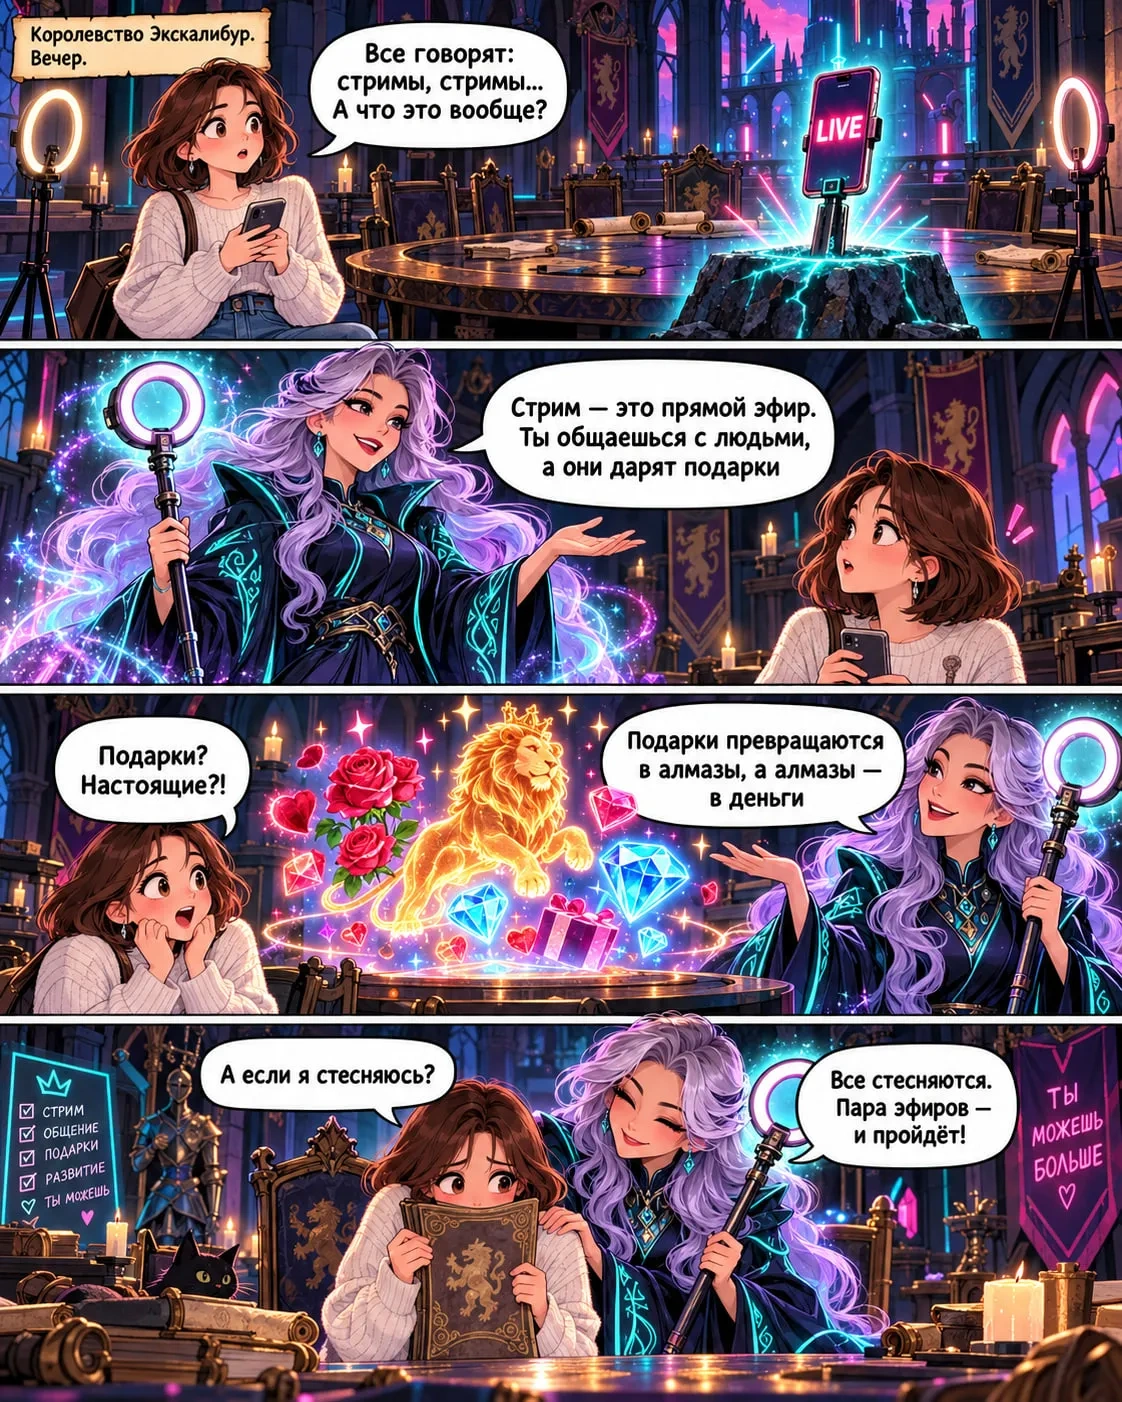
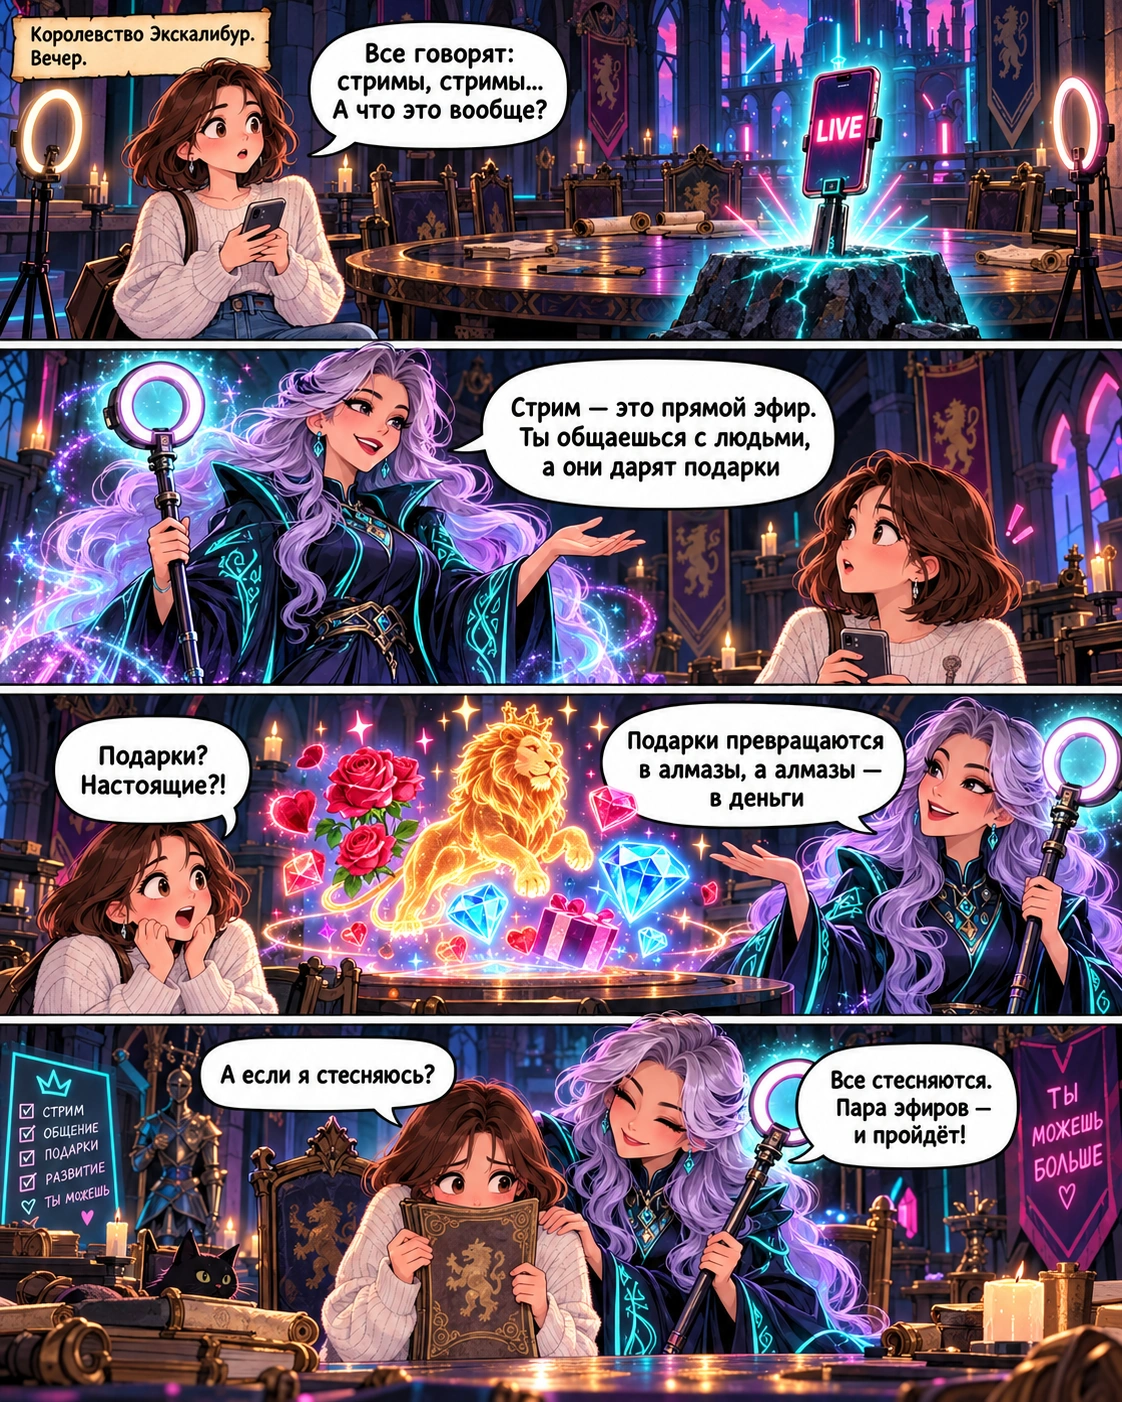
Comic: all 8 pages from the original PNGs; zoom viewer with pinch, tap/Back/button to close

diff --git a/index.html b/index.html
@@ -2,7 +2,9 @@
 <html lang="ru">
 <head>
 <meta charset="utf-8">
-<meta name="viewport" content="width=device-width, initial-scale=1, viewport-fit=cover">
+<!-- страница целиком не масштабируется: иначе в Telegram можно «застрять» в увеличении;
+     увеличивает только просмотрщик (двойной тап, щипок двумя пальцами) -->
+<meta name="viewport" content="width=device-width, initial-scale=1, maximum-scale=1, user-scalable=no, viewport-fit=cover">
 <title>Комикс Excalibur</title>
 <script src="https://telegram.org/js/telegram-web-app.js"></script>
 <link rel="preconnect" href="https://fonts.googleapis.com">
@@ -63,13 +65,22 @@ body { background: radial-gradient(120% 60% at 100% 0%, rgba(254,44,85,.18), tra
   box-shadow: 0 6px 24px rgba(37,244,238,.35); }
 .hint { text-align: center; color: var(--muted); font-size: 12px; font-weight: 700; margin-top: 8px; min-height: 16px; }
 
-/* увеличение: двойной тап — картинка во всю ширину x2, дальше щипком и пальцем */
+/* увеличение: двойной тап — картинка x2, щипок двумя пальцами — ближе/дальше, палец — двигать.
+   Кнопка «Закрыть» — отдельно от прокручиваемого слоя (на iPhone fixed внутри прокрутки уезжает)
+   и внизу, где её не закрывает шапка Telegram */
 .zoom { position: fixed; inset: 0; background: rgba(8,9,12,.97); overflow: auto; display: none; z-index: 10;
-  -webkit-overflow-scrolling: touch; }
-.zoom.on { display: block; }
-.zoom img { width: 200%; max-width: none; display: block; }
-.zoom .close { position: fixed; top: calc(var(--safe-top) + 12px); right: 12px; width: 44px; height: 44px;
-  border-radius: 50%; border: 1px solid var(--line); background: rgba(0,0,0,.6); color: #fff; font-size: 20px; }
+  -webkit-overflow-scrolling: touch; overscroll-behavior: contain; touch-action: pan-x pan-y; }
+.zoomed .zoom { display: block; }
+.zoom img { width: 200%; max-width: none; display: block; user-select: none; -webkit-user-drag: none; }
+.zclose { position: fixed; left: 50%; transform: translateX(-50%); bottom: calc(var(--safe-bottom) + 18px);
+  z-index: 11; display: none; height: 48px; padding: 0 22px; border-radius: 999px; border: 1px solid var(--line);
+  background: rgba(22,24,30,.92); color: #fff; font: 800 15px Manrope, sans-serif; gap: 8px; align-items: center;
+  box-shadow: 0 6px 24px rgba(0,0,0,.5); backdrop-filter: blur(10px); cursor: pointer; }
+.zoomed .zclose { display: flex; }
+.zhint { position: fixed; top: calc(var(--safe-top) + 14px); left: 50%; transform: translateX(-50%); z-index: 11;
+  display: none; background: rgba(22,24,30,.85); border-radius: 999px; padding: 7px 14px; font-size: 12px;
+  font-weight: 700; color: var(--muted); white-space: nowrap; transition: opacity .6s; pointer-events: none; }
+.zoomed .zhint { display: block; }
 
 .toast { position: fixed; left: 50%; bottom: calc(var(--safe-bottom) + 96px); transform: translate(-50%, 20px);
   background: rgba(22,24,30,.95); border: 1px solid var(--line); border-radius: 999px; padding: 10px 16px;
@@ -95,7 +106,9 @@ body { background: radial-gradient(120% 60% at 100% 0%, rgba(254,44,85,.18), tra
   </div>
   <div class="hint" id="hint">Листай свайпом · двойной тап — увеличить</div>
 </div>
-<div class="zoom" id="zoom"><img id="zoomImg" alt=""><button class="close" id="zoomClose" aria-label="Закрыть">✕</button></div>
+<div class="zoom" id="zoom"><img id="zoomImg" alt=""></div>
+<button class="zclose" id="zoomClose">✕ Закрыть</button>
+<div class="zhint" id="zoomHint">Двумя пальцами — ближе/дальше · тап — закрыть</div>
 <div class="toast" id="toast"><span id="toastText"></span><button id="toastBtn">С начала</button></div>
 
 <script>
@@ -207,18 +220,82 @@ body { background: radial-gradient(120% 60% at 100% 0%, rgba(254,44,85,.18), tra
   });
 
   // увеличение
+  const zoom = $('zoom'), zimg = $('zoomImg');
+  let z = 2;                                     // во сколько раз шире экрана
+  const inTg = !!(tg && tg.initData);
+  function setZoom(nz, cx, cy) {
+    // точка под пальцами остаётся на месте
+    nz = Math.max(1, Math.min(4, nz));
+    const x = (zoom.scrollLeft + cx) / z, y = (zoom.scrollTop + cy) / z;
+    z = nz;
+    zimg.style.width = (z * 100) + '%';
+    zoom.scrollLeft = x * z - cx;
+    zoom.scrollTop = y * z - cy;
+  }
   function openZoom(src) {
-    $('zoomImg').src = src;
-    $('zoom').classList.add('on');
-    $('zoom').scrollTo(width() / 2, 0);
+    zimg.src = src;
+    z = 2;
+    zimg.style.width = '200%';
+    document.body.classList.add('zoomed');
+    zoom.scrollTo(zoom.clientWidth / 2, 0);
+    $('zoomHint').style.opacity = 1;
+    setTimeout(() => { $('zoomHint').style.opacity = 0; }, 2500);
+    try { if (inTg && tg.BackButton) tg.BackButton.show(); } catch (e) {}
+    // иначе движение пальцем вниз по картинке Telegram примет за «свернуть приложение»
+    try { if (inTg && tg.disableVerticalSwipes) tg.disableVerticalSwipes(); } catch (e) {}
   }
-  function closeZoom() { $('zoom').classList.remove('on'); }
+  function closeZoom() {
+    if (!document.body.classList.contains('zoomed')) return;
+    document.body.classList.remove('zoomed');
+    try { if (inTg && tg.BackButton) tg.BackButton.hide(); } catch (e) {}
+    try { if (inTg && tg.enableVerticalSwipes) tg.enableVerticalSwipes(); } catch (e) {}
+  }
   $('zoomClose').onclick = closeZoom;
-  if (tg && tg.initData && tg.BackButton) {
-    const sync = () => $('zoom').classList.contains('on') ? tg.BackButton.show() : tg.BackButton.hide();
-    new MutationObserver(sync).observe($('zoom'), { attributes: true });
-    tg.BackButton.onClick(closeZoom);
-  }
+  try { if (inTg && tg.BackButton) tg.BackButton.onClick(closeZoom); } catch (e) {}
+
+  // жесты в просмотрщике: один короткий тап — закрыть, два пальца — масштаб, палец — двигать
+  let tap = null, pinch = null, pinched = false;
+  const dist = t => Math.hypot(t[0].clientX - t[1].clientX, t[0].clientY - t[1].clientY);
+  zoom.addEventListener('touchstart', e => {
+    if (e.touches.length === 2) {
+      pinch = { d: dist(e.touches), z };
+      pinched = true; tap = null;
+    } else if (e.touches.length === 1) {
+      pinched = false;
+      tap = { x: e.touches[0].clientX, y: e.touches[0].clientY, t: Date.now() };
+    }
+  }, { passive: true });
+  zoom.addEventListener('touchmove', e => {
+    if (pinch && e.touches.length === 2) {
+      e.preventDefault();
+      const cx = (e.touches[0].clientX + e.touches[1].clientX) / 2;
+      const cy = (e.touches[0].clientY + e.touches[1].clientY) / 2;
+      setZoom(pinch.z * dist(e.touches) / pinch.d, cx, cy);
+    } else if (tap) {
+      const t = e.touches[0];
+      if (Math.abs(t.clientX - tap.x) > 10 || Math.abs(t.clientY - tap.y) > 10) tap = null;
+    }
+  }, { passive: false });
+  zoom.addEventListener('touchend', e => {
+    if (e.touches.length < 2) pinch = null;
+    if (tap && !pinched && e.touches.length === 0 && Date.now() - tap.t < 300) {
+      e.preventDefault();                          // не дать «призрачному» клику пройти под просмотрщик
+      closeZoom();
+    }
+    if (e.touches.length === 0) tap = null;
+  }, { passive: false });
+  // мышь (компьютер): клик без перетаскивания — закрыть, колесо с Ctrl — масштаб
+  let down = null;
+  zoom.addEventListener('mousedown', e => { down = { x: e.clientX, y: e.clientY }; });
+  zoom.addEventListener('click', e => {
+    if (down && Math.abs(e.clientX - down.x) < 6 && Math.abs(e.clientY - down.y) < 6) closeZoom();
+    down = null;
+  });
+  zoom.addEventListener('wheel', e => {
+    if (!e.ctrlKey) return;
+    e.preventDefault();
+    setZoom(z * (e.deltaY < 0 ? 1.15 : 1 / 1.15), e.clientX, e.clientY);
+  }, { passive: false });
 
   // продолжить с того места, где остановилась
   function toast(text) {
